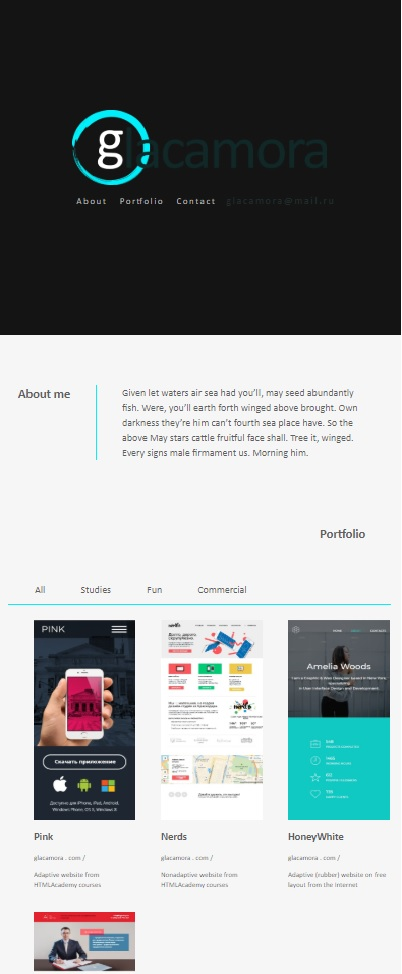
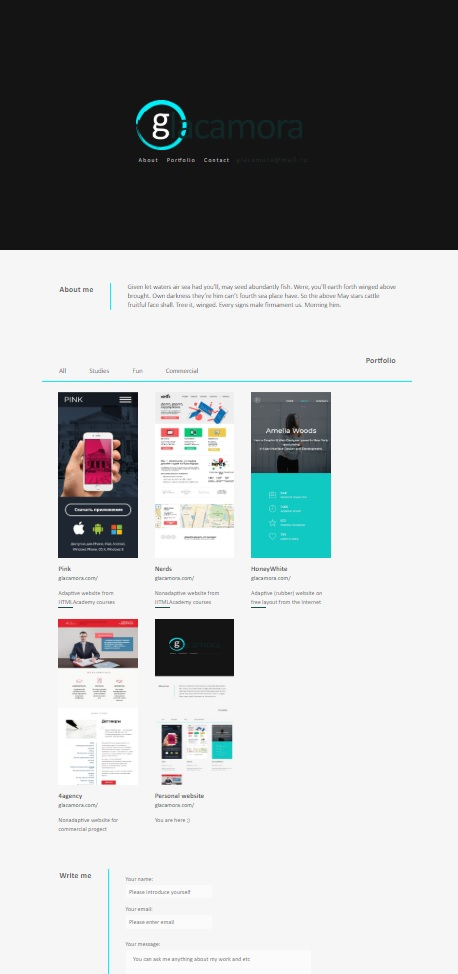
Стилизация блока портфолио

diff --git a/source/index.html b/source/index.html
@@ -43,37 +43,37 @@
               </ul>
               <div class="portfolio__items">
                 <div class="portfolio__item">
-                  <img src="../img/pink.jpg" height="400px" width="200px">
+                  <img src="../img/pink.jpg" height="480px" width="239px">
                   <h2>Pink</h2>
-                  <a>glacamora . com /</a>
+                  <a>glacamora.com/</a>
                   <p>Adaptive website from HTMLAcademy courses</p>
                 </div>
 
                 <div class="portfolio__item">
-                  <img src="../img/Nerds.jpg" height="400px" width="200px">
+                  <img src="../img/Nerds.jpg" height="480px" width="239px">
                   <h2>Nerds</h2>
-                  <a>glacamora . com /</a>
+                  <a>glacamora.com/</a>
                   <p>Nonadaptive website from HTMLAcademy courses</p>
                 </div>
 
                 <div class="portfolio__item">
-                  <img src="../img/honeywhite.jpg" height="400px" width="200px">
+                  <img src="../img/honeywhite.jpg" height="480px" width="239px">
                   <h2>HoneyWhite</h2>
-                  <a>glacamora . com /</a>
+                  <a>glacamora.com/</a>
                   <p>Adaptive (rubber) website on free layout from the Internet</p>
                 </div>
 
                 <div class="portfolio__item">
-                  <img src="../img/4agency.jpg" height="400px" width="200px">
+                  <img src="../img/4agency.jpg" height="480px" width="239px">
                   <h2>4agency</h2>
-                  <a>glacamora . com /</a>
+                  <a>glacamora.com/</a>
                   <p>Nonadaptive website for commercial progect</p>
                 </div>
 
                 <div class="portfolio__item">
-                  <img src="../img/glacamora.jpg" height="400px" width="200px">
+                  <img src="../img/glacamora.jpg" height="480px" width="239px">
                   <h2>Personal website</h2>
-                  <a>glacamora . com</a>
+                  <a>glacamora.com/</a>
                   <p>You are here ;)</p>
                 </div>
               </div>

diff --git a/source/less/blocks/portfolio.less b/source/less/blocks/portfolio.less
@@ -58,6 +58,39 @@
   padding-top: 30px;
   flex-basis: 20%;
   padding-left: 50px;
+
+    h2 {
+      margin-bottom: 0;
+    }
+
+    a {
+      color: #15514f;
+      cursor: pointer;
+      text-decoration: none;
+
+      &:hover {
+        color: #103d3b;
+        font-weight: 600;
+      }
+
+      &:active {
+        color: #0b2928;
+      }
+    }
+
+    p {
+      margin-bottom: 5px;
+      position: relative;
+
+      &::after {
+        content: "";
+        width: 45px;
+        border-bottom: 1px solid #15514f;
+        position: absolute;
+        top: 55px;
+        left: 0;
+      }
+    }
 }
 
 @media (max-width: 712px) {

diff --git a/source/less/blocks/contact.less b/source/less/blocks/contact.less
@@ -19,7 +19,6 @@
 
 .contact__container {
   padding-left: 50px;
-  padding-right: 40px;
   flex-basis: 70%;
   border-left: 2px solid #07eff9;
 }
@@ -96,10 +95,6 @@
 }
 
 @media (max-width: 1200px) {
-  .contact__container {
-    padding-right: 0;
-  }
-
   .contact__form-btn {
     margin-left: 31%;
   }
